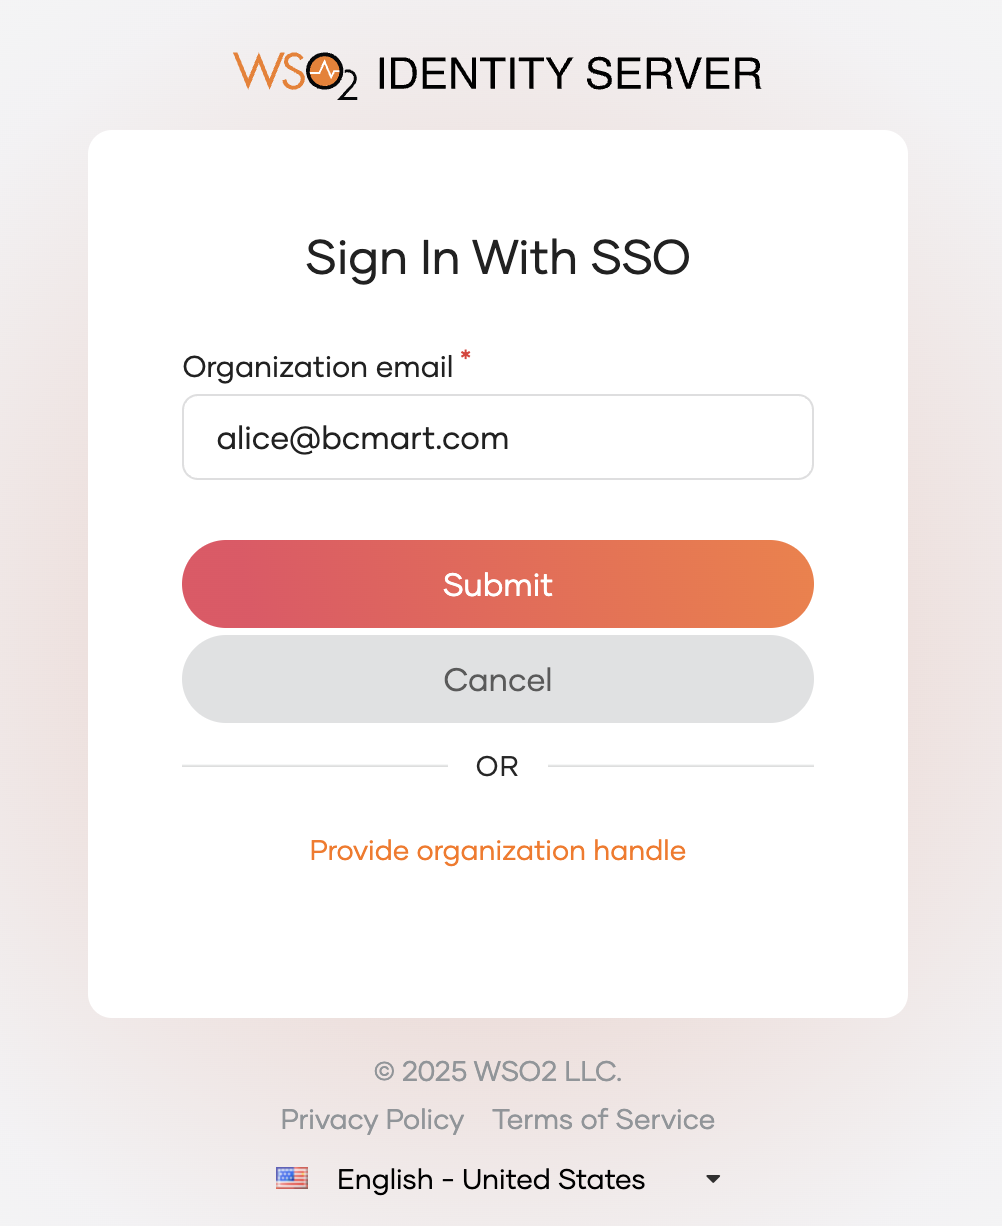
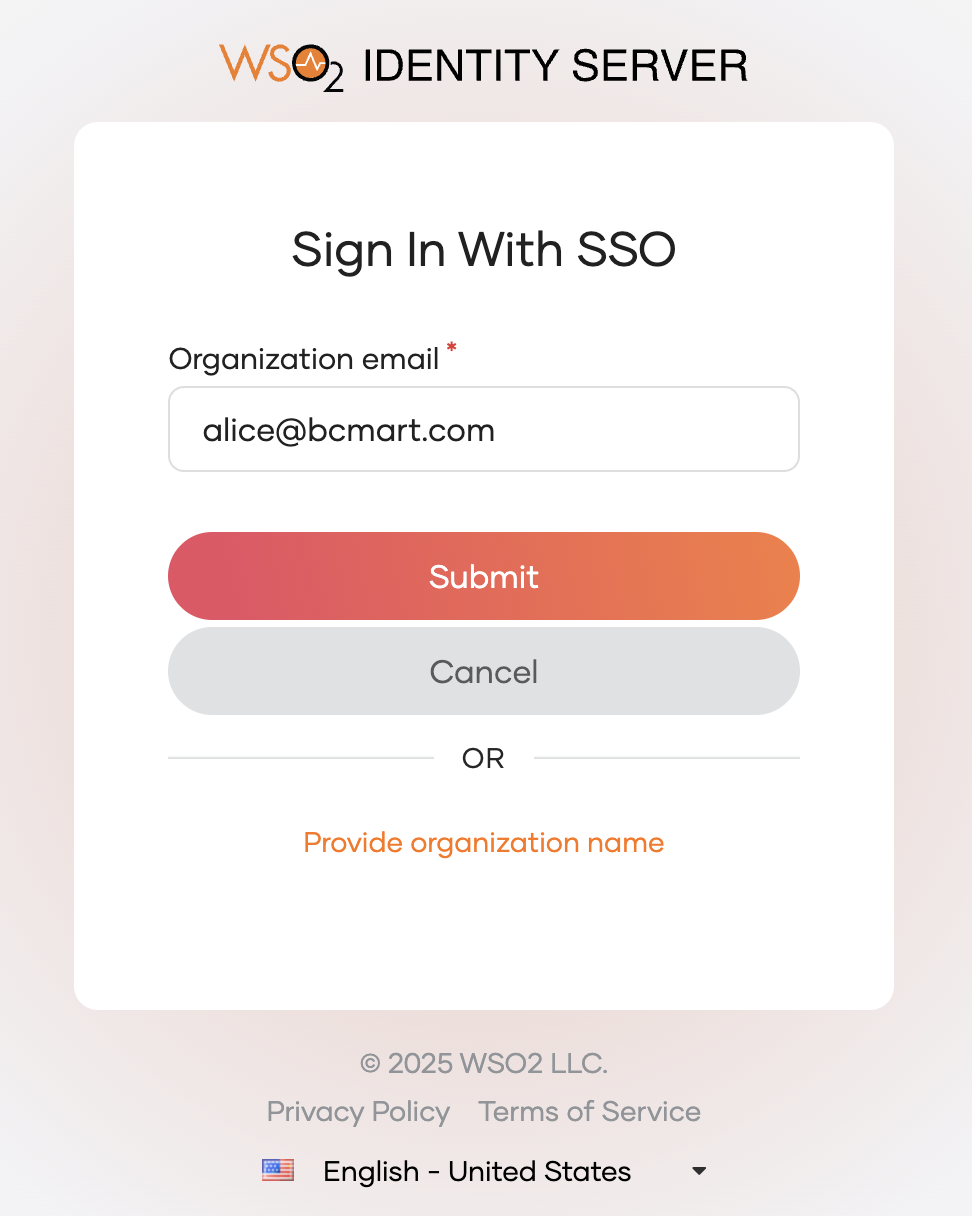
Add review suggestions and update outdated image

diff --git a/en/includes/guides/organization-management/organization-discovery/index.md b/en/includes/guides/organization-management/organization-discovery/index.md
@@ -14,8 +14,8 @@ This guide explains available discovery types and shows how to integrate them in
 
 | Discovery Type                    | Use Case                                                  |
 |-----------------------------------|-----------------------------------------------------------|
-| **Organization Name-Based**       | Direct users to their organization using the organization name. |
-| **Organization ID-Based**         | Route users using the organization id. Suitable for server-side integrations. |
+| **Organization Name-Based**       | Route users using the organization name. |
+| **Organization ID-Based**         | Route users using the organization ID. Suitable for server-side integrations. |
 | **Email Domain-Based**            | Automatically identify organizations from email domains. Ideal for corporate email addresses. |
 
 {% else %}
@@ -25,8 +25,8 @@ This guide explains available discovery types and shows how to integrate them in
 | Discovery Type                    | Use Case                                                  |
 |-----------------------------------|-----------------------------------------------------------|
 | **Organization Handle-Based**     | Route users using the organization handle, a human-readable, unique identifier. |
-| **Organization Name-Based**       | Direct users to their organization using the organization name. |
-| **Organization ID-Based**         | Route users using the organization id. Suitable for server-side integrations. |
+| **Organization Name-Based**       | Route users using the organization name. |
+| **Organization ID-Based**         | Route users using the organization ID. Suitable for server-side integrations. |
 | **Email Domain-Based**            | Automatically identify organizations from email domains. Ideal for corporate email addresses. |
 | **Custom Attribute-Based**        | Enable advanced discovery options using custom attributes. |
 
@@ -34,8 +34,8 @@ This guide explains available discovery types and shows how to integrate them in
 
 | Discovery Type                    | Use Case                                                  |
 |-----------------------------------|-----------------------------------------------------------|
-| **Organization Name-Based**       | Direct users to their organization using the organization name. |
-| **Organization ID-Based**         | Route users using the organization id. Suitable for server-side integrations. |
+| **Organization Name-Based**       | Route users using the organization name. |
+| **Organization ID-Based**         | Route users using the organization ID. Suitable for server-side integrations. |
 | **Email Domain-Based**            | Automatically identify organizations from email domains. Ideal for corporate email addresses. |
 | **Custom Attribute-Based**        | Enable advanced discovery options using custom attributes. |
 
